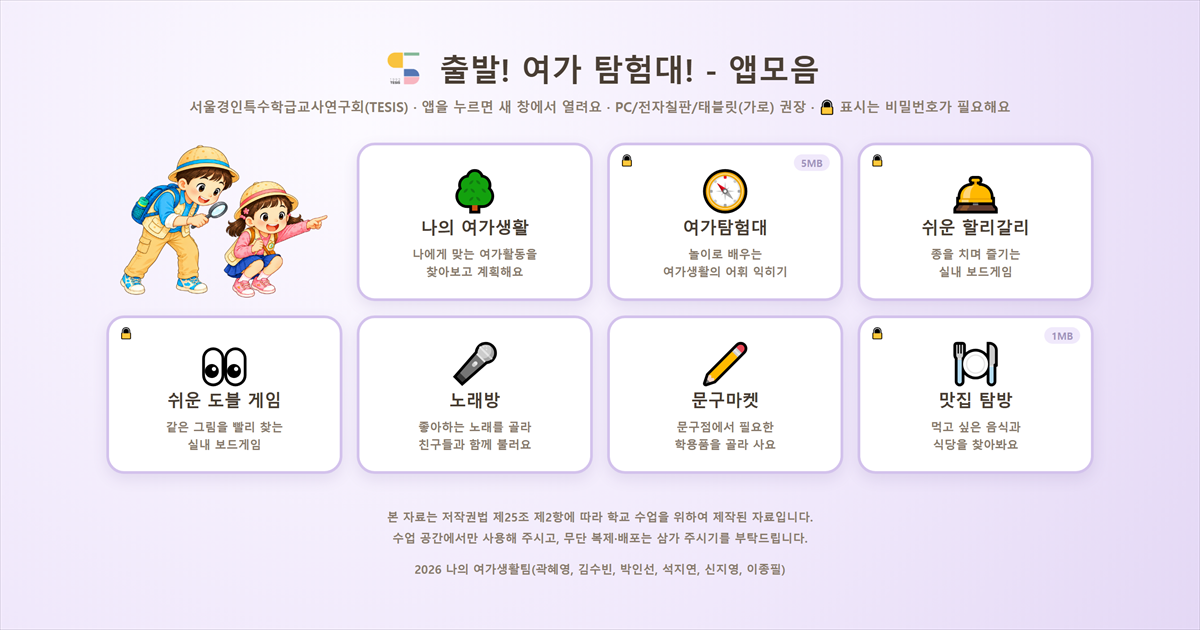
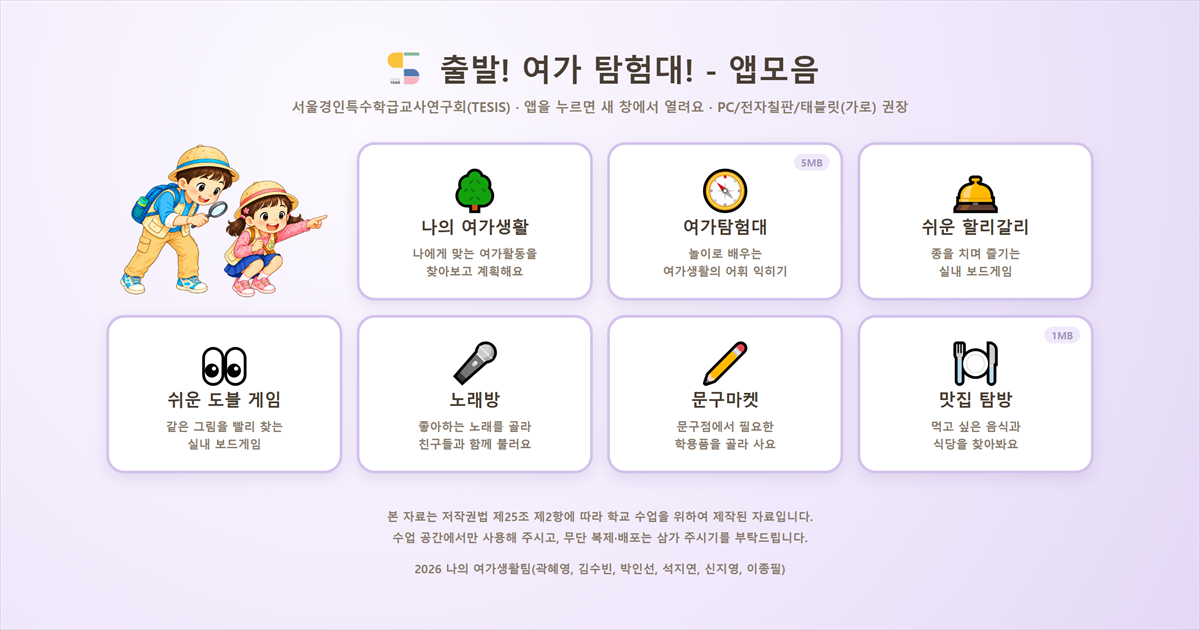
잠금 표시 제거
카드의 자물쇠 배지와 부제의 안내 문구를 뺐습니다.
없는 편이 더 깔끔해서 미리보기 이미지도 다시 촬영했습니다.

diff --git a/index.html b/index.html
@@ -32,7 +32,6 @@ h1 .logo{ height:52px; width:auto; }
 .art img{ display:block; width:100%; height:100%; object-fit:contain; }
 .nm{ font-size:19px; font-weight:800; text-align:center; word-break:keep-all; }
 .ds{ font-size:13px; color:var(--muted); text-align:center; word-break:keep-all; line-height:1.5; }
-.lk{ position:absolute; top:10px; left:12px; font-size:12px; line-height:1; }
 .sz{ position:absolute; top:10px; right:12px; font-size:11px; color:#a294bd; background:var(--cream2); border-radius:999px; padding:2px 8px; }
 .sz.big{ color:#c0392b; background:#FBE1DC; }
 .foot{ text-align:center; color:var(--muted); font-size:13px; margin-top:36px; line-height:1.8; word-break:keep-all; }
@@ -42,16 +41,16 @@ h1 .logo{ height:52px; width:auto; }
 <body>
 <div class="wrap">
[1 lines of base64/hex data omitted]
-  <div class="sub">서울경인특수학급교사연구회(TESIS) · 앱을 누르면 새 창에서 열려요 · PC/전자칠판/태블릿(가로) 권장 · 🔒 표시는 비밀번호가 필요해요</div>
+  <div class="sub">서울경인특수학급교사연구회(TESIS) · 앱을 누르면 새 창에서 열려요 · PC/전자칠판/태블릿(가로) 권장</div>
   <div class="grid">
       <div class="art"><img src="images/그림삽화.png" alt="여가 탐험대 어린이 그림"></div>
       <a class="card" href="https://jinnie-class.github.io/my-leisure-/" target="_blank" rel="noopener"><span class="ico">🌳</span><span class="nm">나의 여가생활</span><span class="ds">나에게 맞는 여가활동을<br>찾아보고 계획해요</span></a>
-      <a class="card" href="explorer/index.html" target="_blank" rel="noopener"><span class="lk" title="비밀번호가 필요해요">🔒</span><span class="ico">🧭</span><span class="nm">여가탐험대</span><span class="ds">놀이로 배우는<br>여가생활의 어휘 익히기</span><span class="sz">5MB</span></a>
-      <a class="card" href="halligalli/index.html" target="_blank" rel="noopener"><span class="lk" title="비밀번호가 필요해요">🔒</span><span class="ico">🛎</span><span class="nm">쉬운 할리갈리</span><span class="ds">종을 치며 즐기는<br>실내 보드게임</span></a>
-      <a class="card" href="dobble/index.html" target="_blank" rel="noopener"><span class="lk" title="비밀번호가 필요해요">🔒</span><span class="ico">👀</span><span class="nm">쉬운 도블 게임</span><span class="ds">같은 그림을 빨리 찾는<br>실내 보드게임</span></a>
+      <a class="card" href="explorer/index.html" target="_blank" rel="noopener"><span class="ico">🧭</span><span class="nm">여가탐험대</span><span class="ds">놀이로 배우는<br>여가생활의 어휘 익히기</span><span class="sz">5MB</span></a>
+      <a class="card" href="halligalli/index.html" target="_blank" rel="noopener"><span class="ico">🛎</span><span class="nm">쉬운 할리갈리</span><span class="ds">종을 치며 즐기는<br>실내 보드게임</span></a>
+      <a class="card" href="dobble/index.html" target="_blank" rel="noopener"><span class="ico">👀</span><span class="nm">쉬운 도블 게임</span><span class="ds">같은 그림을 빨리 찾는<br>실내 보드게임</span></a>
       <a class="card" href="https://jinnie-class.github.io/gogogo/" target="_blank" rel="noopener"><span class="ico">🎤</span><span class="nm">노래방</span><span class="ds">좋아하는 노래를 골라<br>친구들과 함께 불러요</span></a>
       <a class="card" href="https://jinnie-class.github.io/go-market/" target="_blank" rel="noopener"><span class="ico">✏</span><span class="nm">문구마켓</span><span class="ds">문구점에서 필요한<br>학용품을 골라 사요</span></a>
-      <a class="card" href="food/index.html" target="_blank" rel="noopener"><span class="lk" title="비밀번호가 필요해요">🔒</span><span class="ico">🍽</span><span class="nm">맛집 탐방</span><span class="ds">먹고 싶은 음식과<br>식당을 찾아봐요</span><span class="sz">1MB</span></a>
+      <a class="card" href="food/index.html" target="_blank" rel="noopener"><span class="ico">🍽</span><span class="nm">맛집 탐방</span><span class="ds">먹고 싶은 음식과<br>식당을 찾아봐요</span><span class="sz">1MB</span></a>
   </div>
   <div class="foot">본 자료는 저작권법 제25조 제2항에 따라 학교 수업을 위하여 제작된 자료입니다.<br>
   수업 공간에서만 사용해 주시고, 무단 복제·배포는 삼가 주시기를 부탁드립니다.</div>
